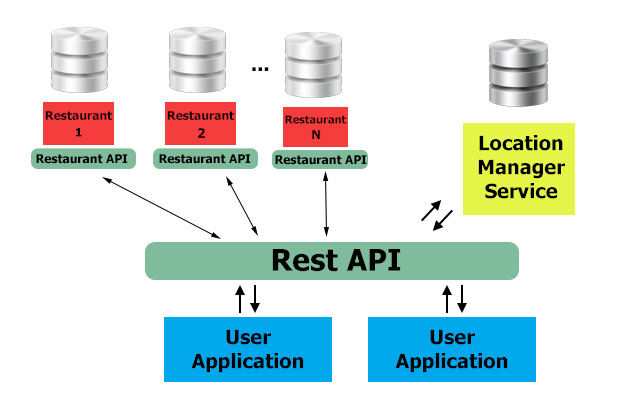
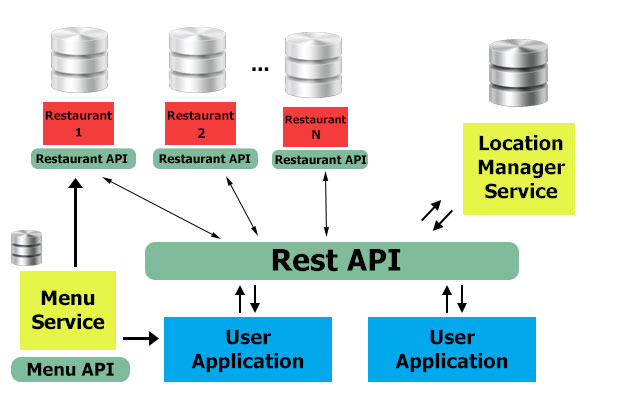
added more to the arquitecture section

Changed region(s): [[0.0, 0.45, 0.25, 0.96]]

diff --git a/index.html b/index.html
@@ -42,5 +42,14 @@
 <h4>Restful API</h4>
 <p>Casi cualquier lenguaje de programación (dentro de los límites de lo razonable) tiene la funcionalidad de poder crear un API Restful. Sería fácil para mi crear el API using Java Spring desde que llevo un año trabajando con esa marca de trabajo. Sin embargo me gustaría experimentar con el Node js desde que estos días está muy de moda.</p>
 
+<h4>Menu Service</h4>
+<p>El menú del restaurante se guardará en un microservicio a que la aplicación usuario y los sistemas de cada restaurante contactarán. El API the este servicio permitirá que los usuarios administrativos puedan cambiar los itemes en el menú. El menú mismo se guardará en un base de datos. Para simplificar todo, usaré el <a href="https://www.mongodb.com/">MongoDB</a> porque tiene una forma con que es muy fácil interactuar y no hace falta que uses SQL.</p>
+
+<h4>Sistema de Restaurante</h4>
+<p>El sistema de cada restaurante será lo mismo pero desplegado en la nube independientemente de los demás con su propia base de datos. El API del sistema tendrá la responsibilidad de pasar los pedidos para que el sistema las pueda procesar, y devolver los resultados al API REST principal. El sistema conectará a una base de datos que guardará el menú, recuperado del Menu Service, y el total de cada item. </p>
+
+<h4>Location Service</h4>
+<p>Este servicio tendrá una base de datos que guardará la dirección IP de cada restaurante de la empresa junta con su ubicación. El servicio usará la ubicación del usuario, dado por el API REST, para encontrar el restaurante más cercano y devolver la dirección IP del restaurante óptimo. La base de datos será muy simple así que se puede usar el <a href="https://www.mongodb.com/">MongoDB</a> y para calcular el restaurante más óptimo, pasará las ubicaciones al <a href="https://developers.google.com/maps/?hl=es-419">Google Maps API</a> el cual devolvará el resultado. </p>
+
   </body>
 </html>
